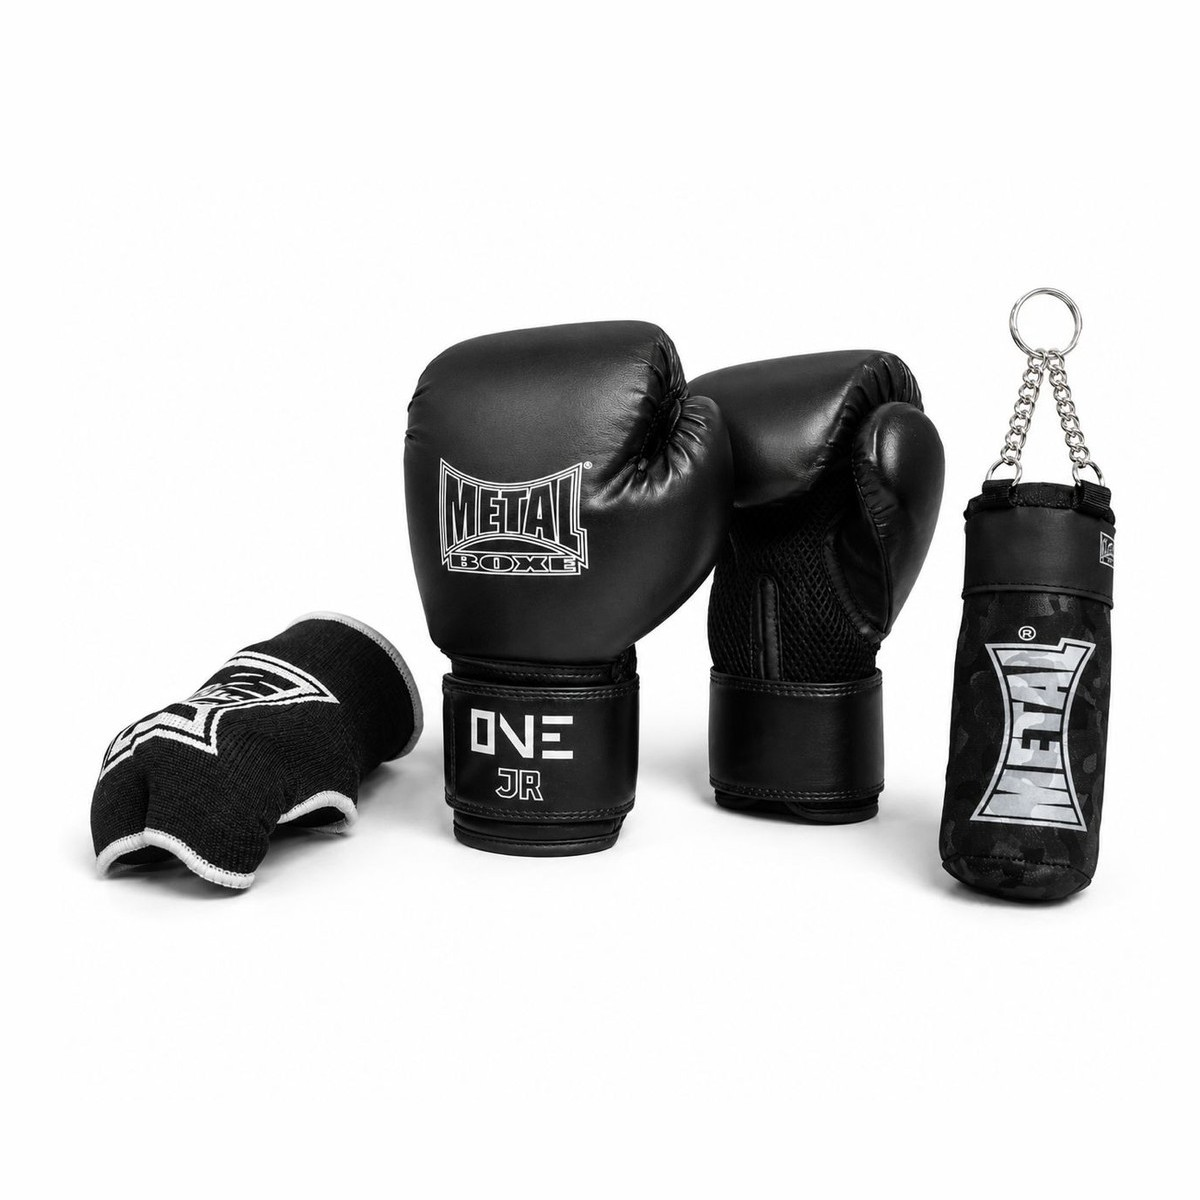
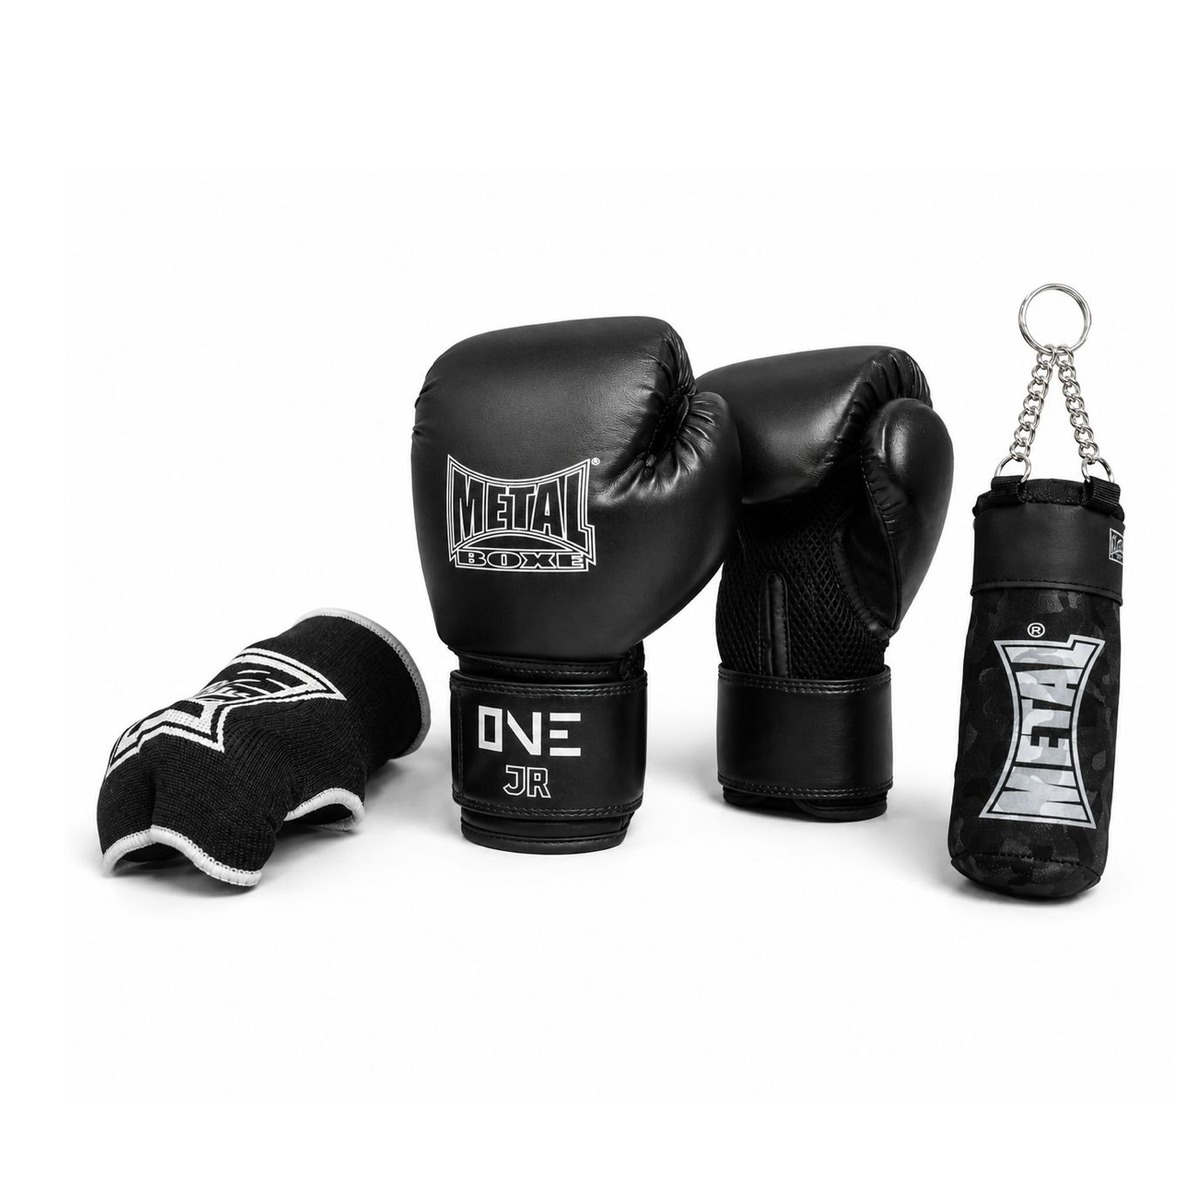
fix: centrer le pack enfants dans le cadre sans le couper.
Le recadrage trop serré tronquait la mitaine et le porte-clés. Le set est recentré avec des marges égales.

diff --git a/storefront/public/css/components.css b/storefront/public/css/components.css
@@ -93,7 +93,7 @@
   width: 100%;
   height: 100%;
   object-fit: cover;
-  object-position: center 42%;
+  object-position: center center;
   display: block;
 }
 .product-info { background: #fff; border: 1px solid var(--bc-border); border-radius: var(--radius-lg); padding: 28px; align-self: start; }
@@ -873,7 +873,7 @@
   width: 100%;
   height: 100%;
   object-fit: cover;
-  object-position: center 42%;
+  object-position: center center;
   display: block;
   background: #eceef2;
   transition: transform 0.5s var(--ease-out);
@@ -1095,7 +1095,7 @@
   height: 100%;
   display: block;
   object-fit: cover;
-  object-position: center 42%;
+  object-position: center center;
 }
 
 .product-desc { margin-top: 24px; font-size: 14px; color: var(--bc-muted); }
@@ -2695,7 +2695,7 @@ video.bg-video.is-playing {
 .gear-card { background: #fff; border: 1px solid var(--bc-border); border-radius: var(--radius); overflow: hidden; display: flex; flex-direction: column; transition: transform 0.25s var(--ease-out), box-shadow 0.25s var(--ease-out); }
 .gear-card:hover { transform: translateY(-3px); box-shadow: var(--shadow-lg); }
 .gear-card__media { position: relative; display: block; aspect-ratio: 1; background: #eceef2; overflow: hidden; }
-.gear-card__media img { position: absolute; inset: 0; width: 100%; height: 100%; object-fit: cover; object-position: center 42%; display: block; transition: transform 0.5s var(--ease-out); }
+.gear-card__media img { position: absolute; inset: 0; width: 100%; height: 100%; object-fit: cover; object-position: center center; display: block; transition: transform 0.5s var(--ease-out); }
 .gear-card:hover .gear-card__media img { transform: scale(1.05); }
 .gear-card__body { padding: 12px 16px 16px; display: flex; flex-direction: column; gap: 4px; flex: 1; }
 .gear-card__cat { font-size: 11px; text-transform: uppercase; letter-spacing: 0.08em; color: var(--bc-gold); font-weight: 700; }

diff --git a/scripts/fit-rentree-cadres.py b/scripts/fit-rentree-cadres.py
@@ -62,6 +62,50 @@ def product_box(im: Image.Image) -> tuple[tuple[int, int, int], tuple[int, int, 
     return bg, (minx, miny, min(w, maxx + step), min(h, maxy + step))
 
 
+def product_box_full(im: Image.Image, thresh: int = 8) -> tuple[int, int, int, int]:
+    """Pixel-accurate bbox for white-studio group shots (no step sampling)."""
+    rgb = im.convert("RGB")
+    w, h = rgb.size
+    px = rgb.load()
+    minx, miny, maxx, maxy = w, h, 0, 0
+    bg = bg_color(rgb)
+    for y in range(h):
+        for x in range(w):
+            p = px[x, y]
+            if max(abs(p[i] - bg[i]) for i in range(3)) > thresh:
+                if x < minx:
+                    minx = x
+                if y < miny:
+                    miny = y
+                if x > maxx:
+                    maxx = x
+                if y > maxy:
+                    maxy = y
+    if maxx <= minx:
+        return (0, 0, w, h)
+    return (minx, miny, maxx + 1, maxy + 1)
+
+
+def fit_centered_wide(im: Image.Image, pad_ratio: float = 0.07) -> Image.Image:
+    """Keep a wide product set fully visible and centered in a square."""
+    rgb = im.convert("RGB")
+    w, h = rgb.size
+    x0, y0, x1, y1 = product_box_full(rgb)
+    bw, bh = max(1, x1 - x0), max(1, y1 - y0)
+    pad = max(48, int(pad_ratio * max(bw, bh)))
+    side = max(bw, bh) + 2 * pad
+    cx = (x0 + x1) / 2
+    cy = (y0 + y1) / 2
+    canvas = Image.new("RGB", (side, side), (255, 255, 255))
+    ox = int(round(side / 2 - cx))
+    oy = int(round(side / 2 - cy))
+    canvas.paste(rgb, (ox, oy))
+    out_size = min(OUT_SIZE, max(side, int(max(w, h) * 1.15)))
+    if canvas.size[0] != out_size:
+        canvas = canvas.resize((out_size, out_size), Image.Resampling.LANCZOS)
+    return canvas
+
+
 def fit_square(im: Image.Image) -> Image.Image:
     rgb = im.convert("RGB")
     w, h = rgb.size
@@ -110,7 +154,10 @@ def main() -> int:
         if any(part in SKIP_DIRS for part in path.parts):
             continue
         src = Image.open(path)
-        out = fit_square(src)
+        if path.name == "pack-enfant.jpg":
+            out = fit_centered_wide(src)
+        else:
+            out = fit_square(src)
         save_image(out, path)
         print(f"cadre {path.relative_to(DEST)}  {src.size} -> {out.size}")
         count += 1
